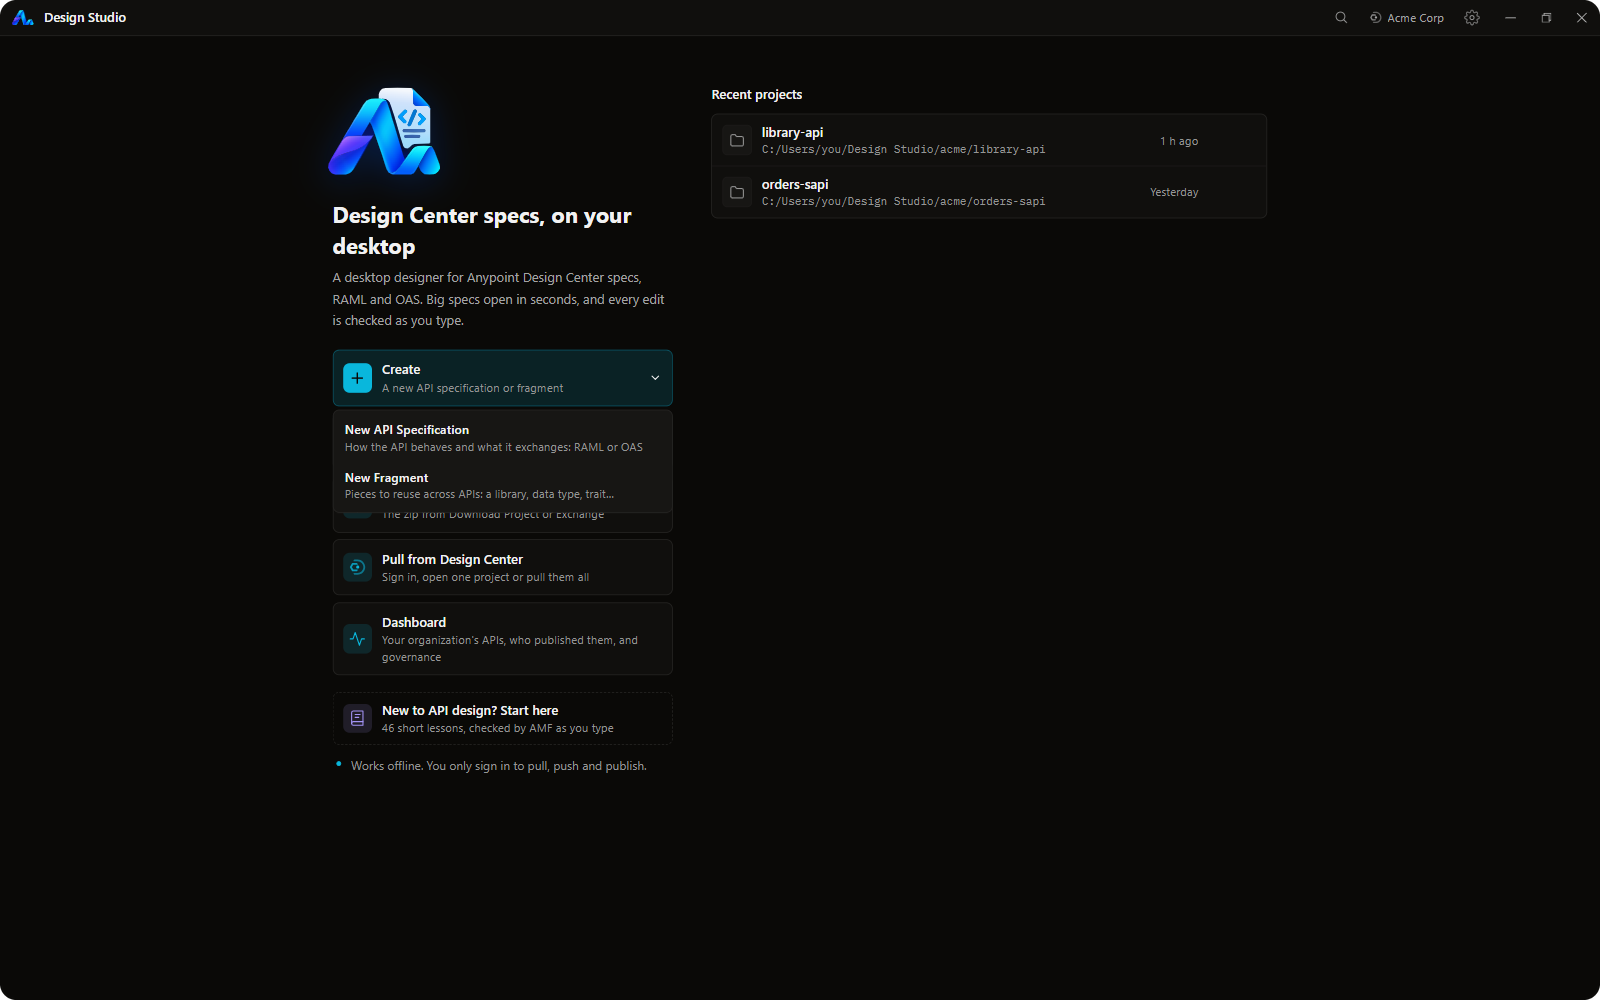
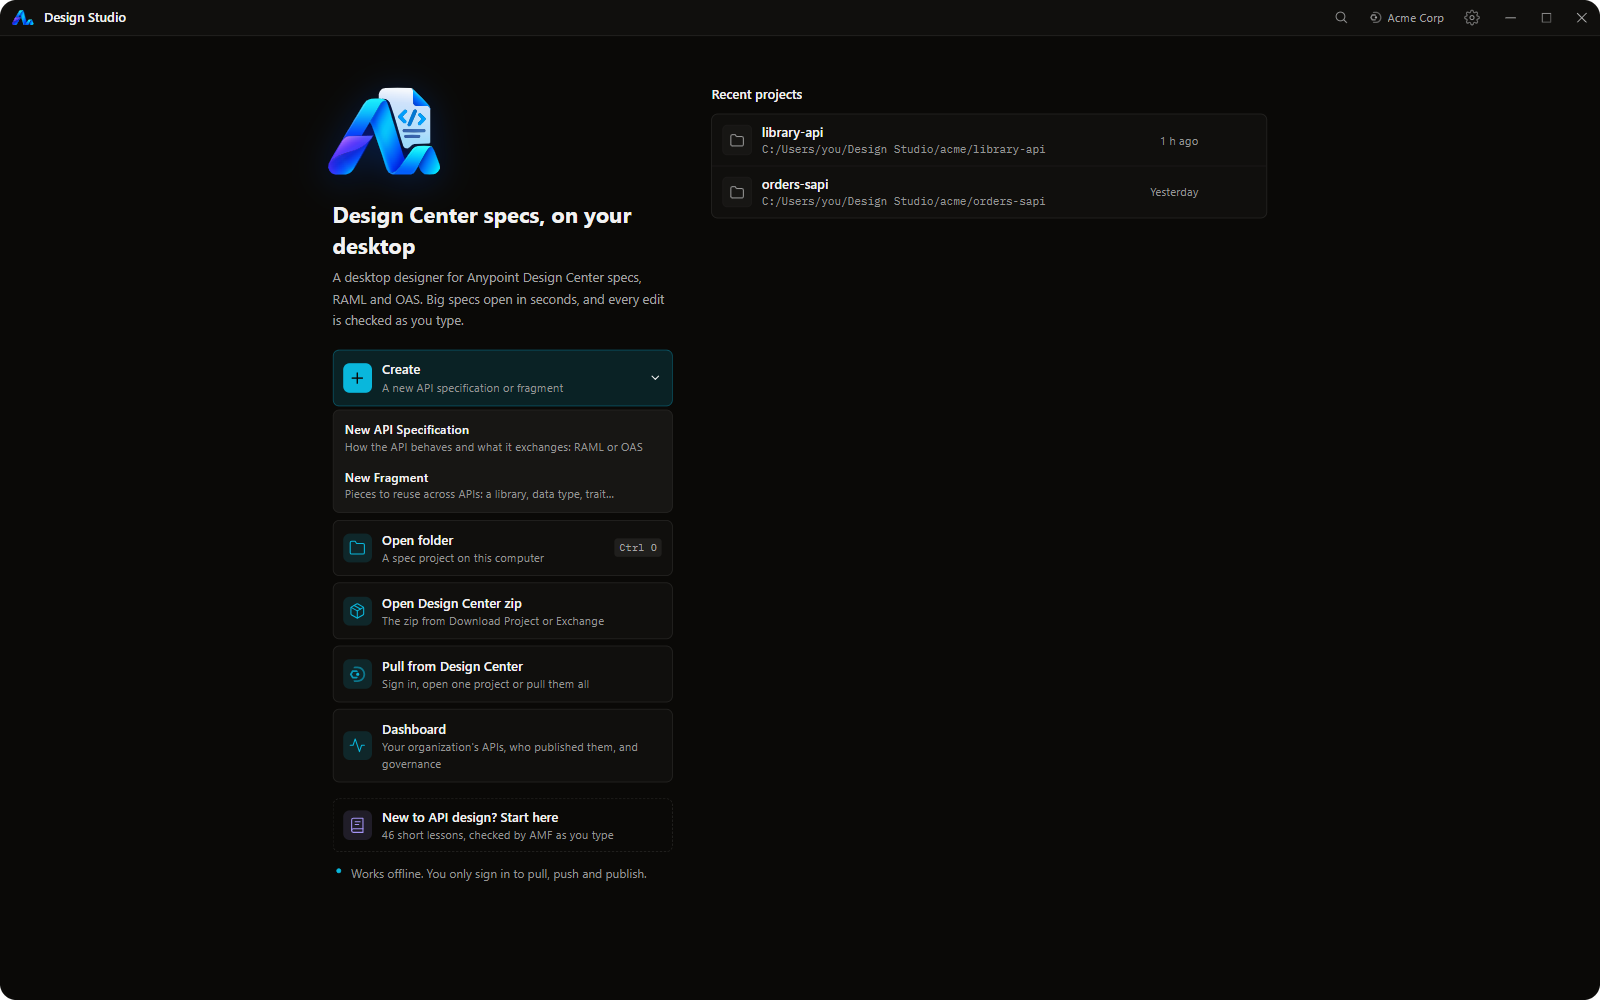
Start screen: Create's choices open in place instead of half covering the card below

diff --git a/src/App.tsx b/src/App.tsx
@@ -409,16 +409,16 @@ function StartView({ recent, opening, error, onOpen, onNewWindow, onOpenZip, onP
               <span className="flex-1"><span className="block font-semibold">Create</span><span className="block text-[11.5px] text-content-faint">A new API specification or fragment</span></span>
               <Icons.ChevronDown size={13} />
             </button>
-            {createMenu && <>
-              <div className="fixed inset-0 z-30" onClick={() => setCreateMenu(false)} />
-              <div className="absolute left-0 right-0 top-full mt-1 z-40 p-1 rounded-lg bg-surface-2 border border-line shadow-[var(--shadow)]">
-                {([['api', 'New API Specification', 'How the API behaves and what it exchanges: RAML or OAS'], ['fragment', 'New Fragment', 'Pieces to reuse across APIs: a library, data type, trait…']] as const).map(([id, t, d]) => (
-                  <button key={id} onClick={() => { setCreateMenu(false); onCreate(id); }} className="w-full px-2.5 py-2 rounded-md text-left hover:bg-surface-3">
+            {/* The choices open in place and push the cards below down, so nothing peeks out from under them. */}
+            {createMenu && (
+              <div className="mt-1 p-1 rounded-lg bg-surface-2 border border-line" onKeyDown={(e) => { if (e.key === 'Escape') setCreateMenu(false); }}>
+                {([['api', 'New API Specification', 'How the API behaves and what it exchanges: RAML or OAS'], ['fragment', 'New Fragment', 'Pieces to reuse across APIs: a library, data type, trait…']] as const).map(([id, t, d], i) => (
+                  <button key={id} autoFocus={i === 0} onClick={() => { setCreateMenu(false); onCreate(id); }} className="w-full px-2.5 py-2 rounded-md text-left hover:bg-surface-3 focus-visible:bg-surface-3 outline-none">
                     <span className="block font-semibold text-[12.5px]">{t}</span><span className="block text-[11.5px] text-content-faint">{d}</span>
                   </button>
                 ))}
               </div>
-            </>}
+            )}
           </div>
           <button
             disabled={!isTauri || !!opening}
